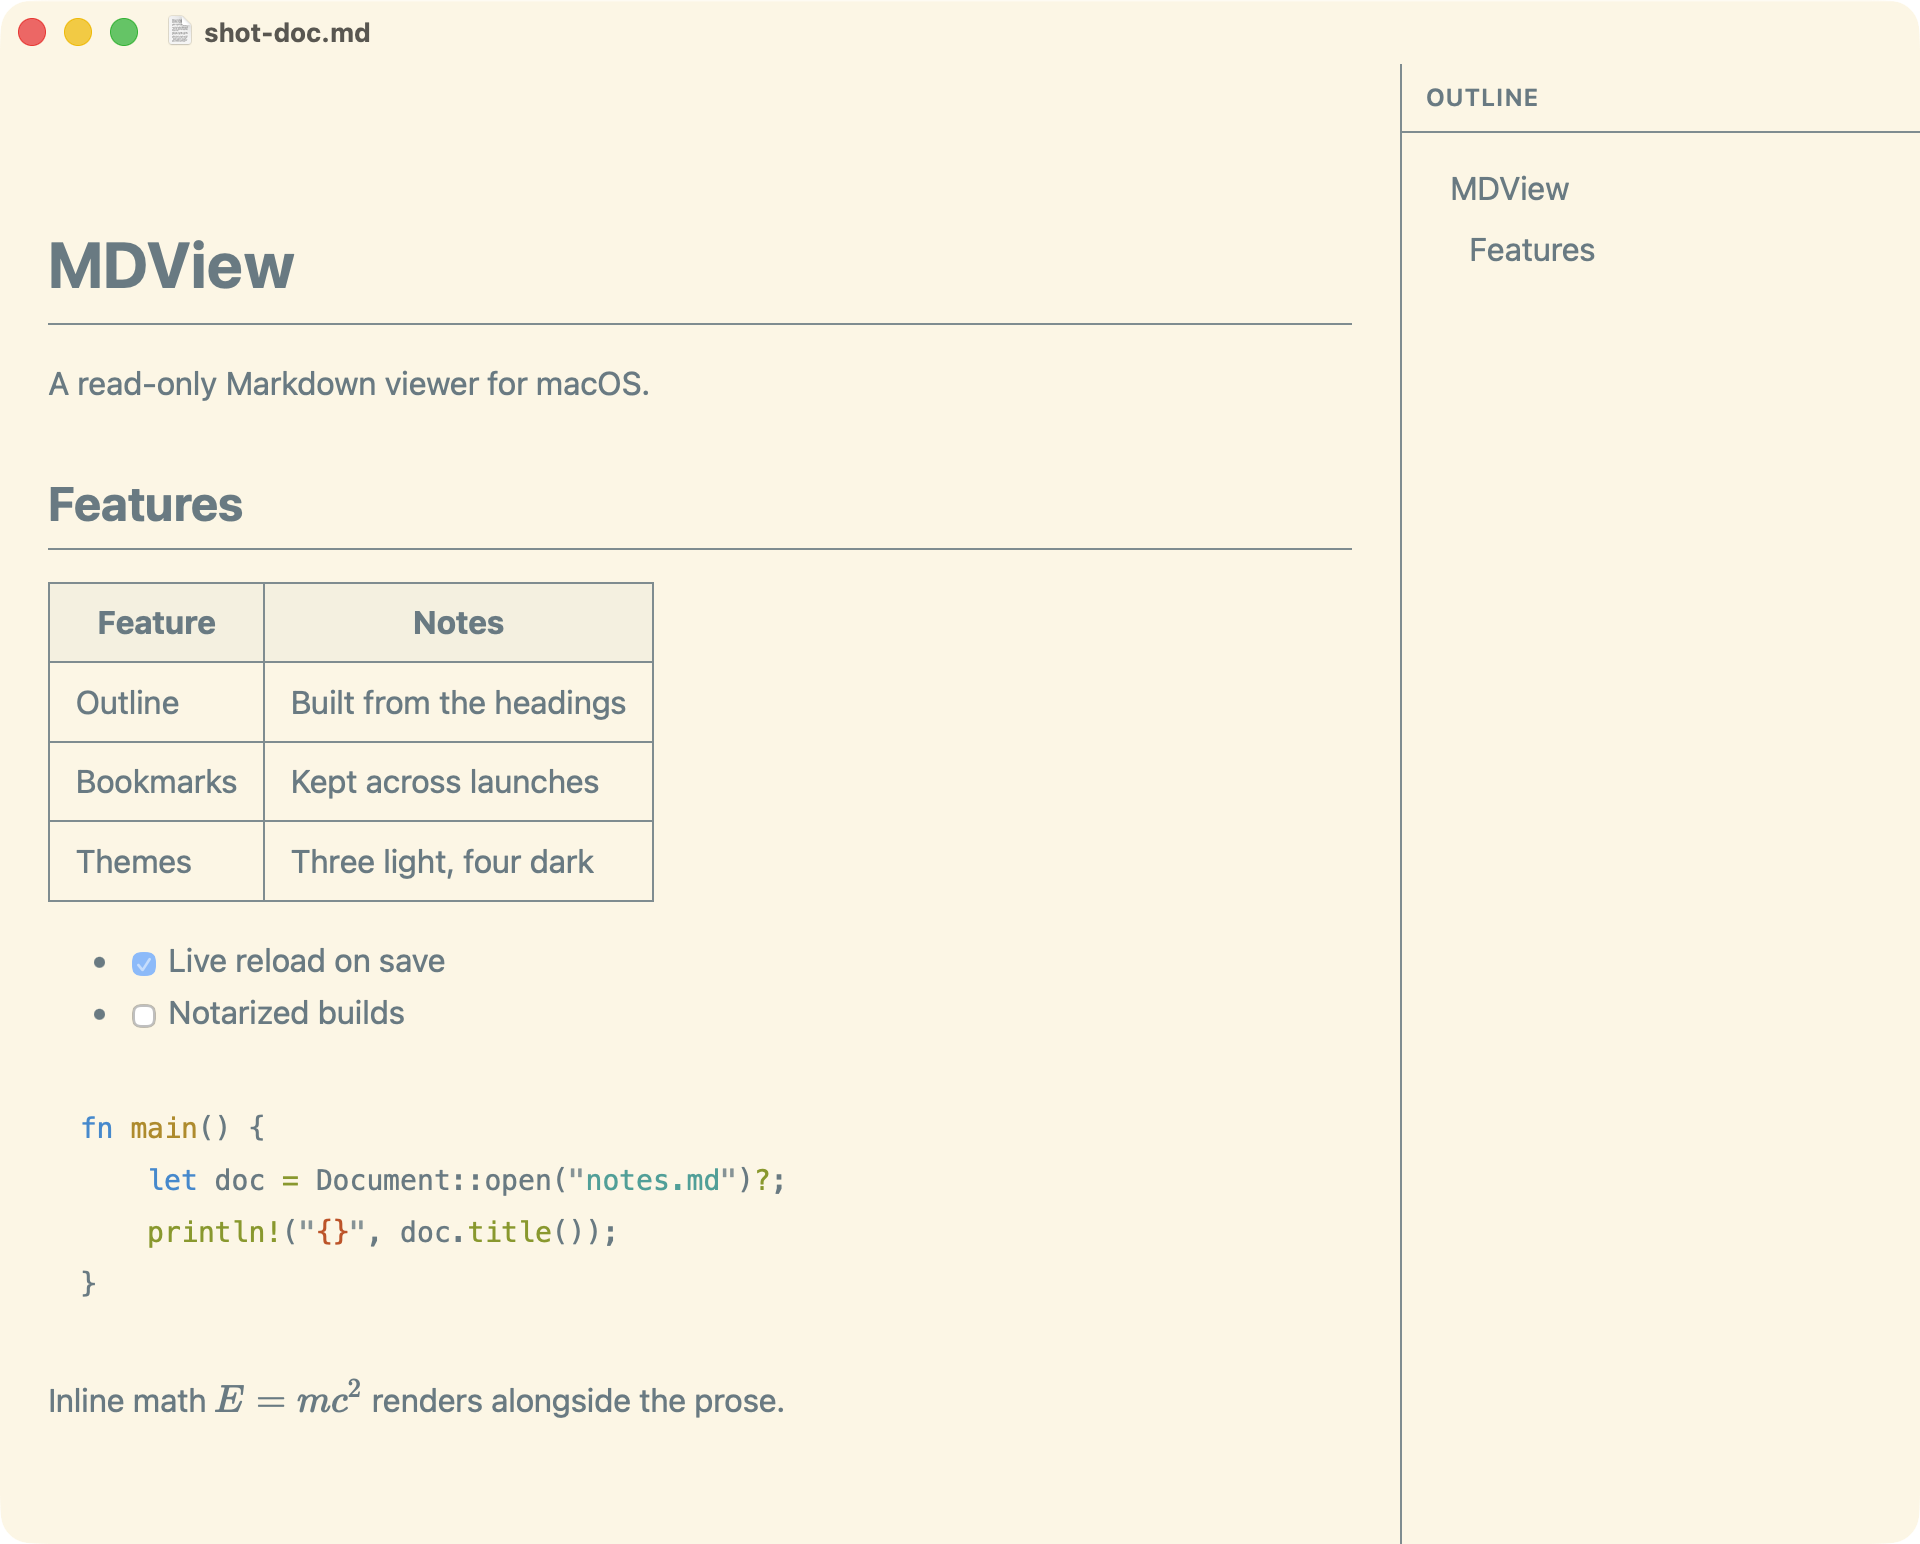
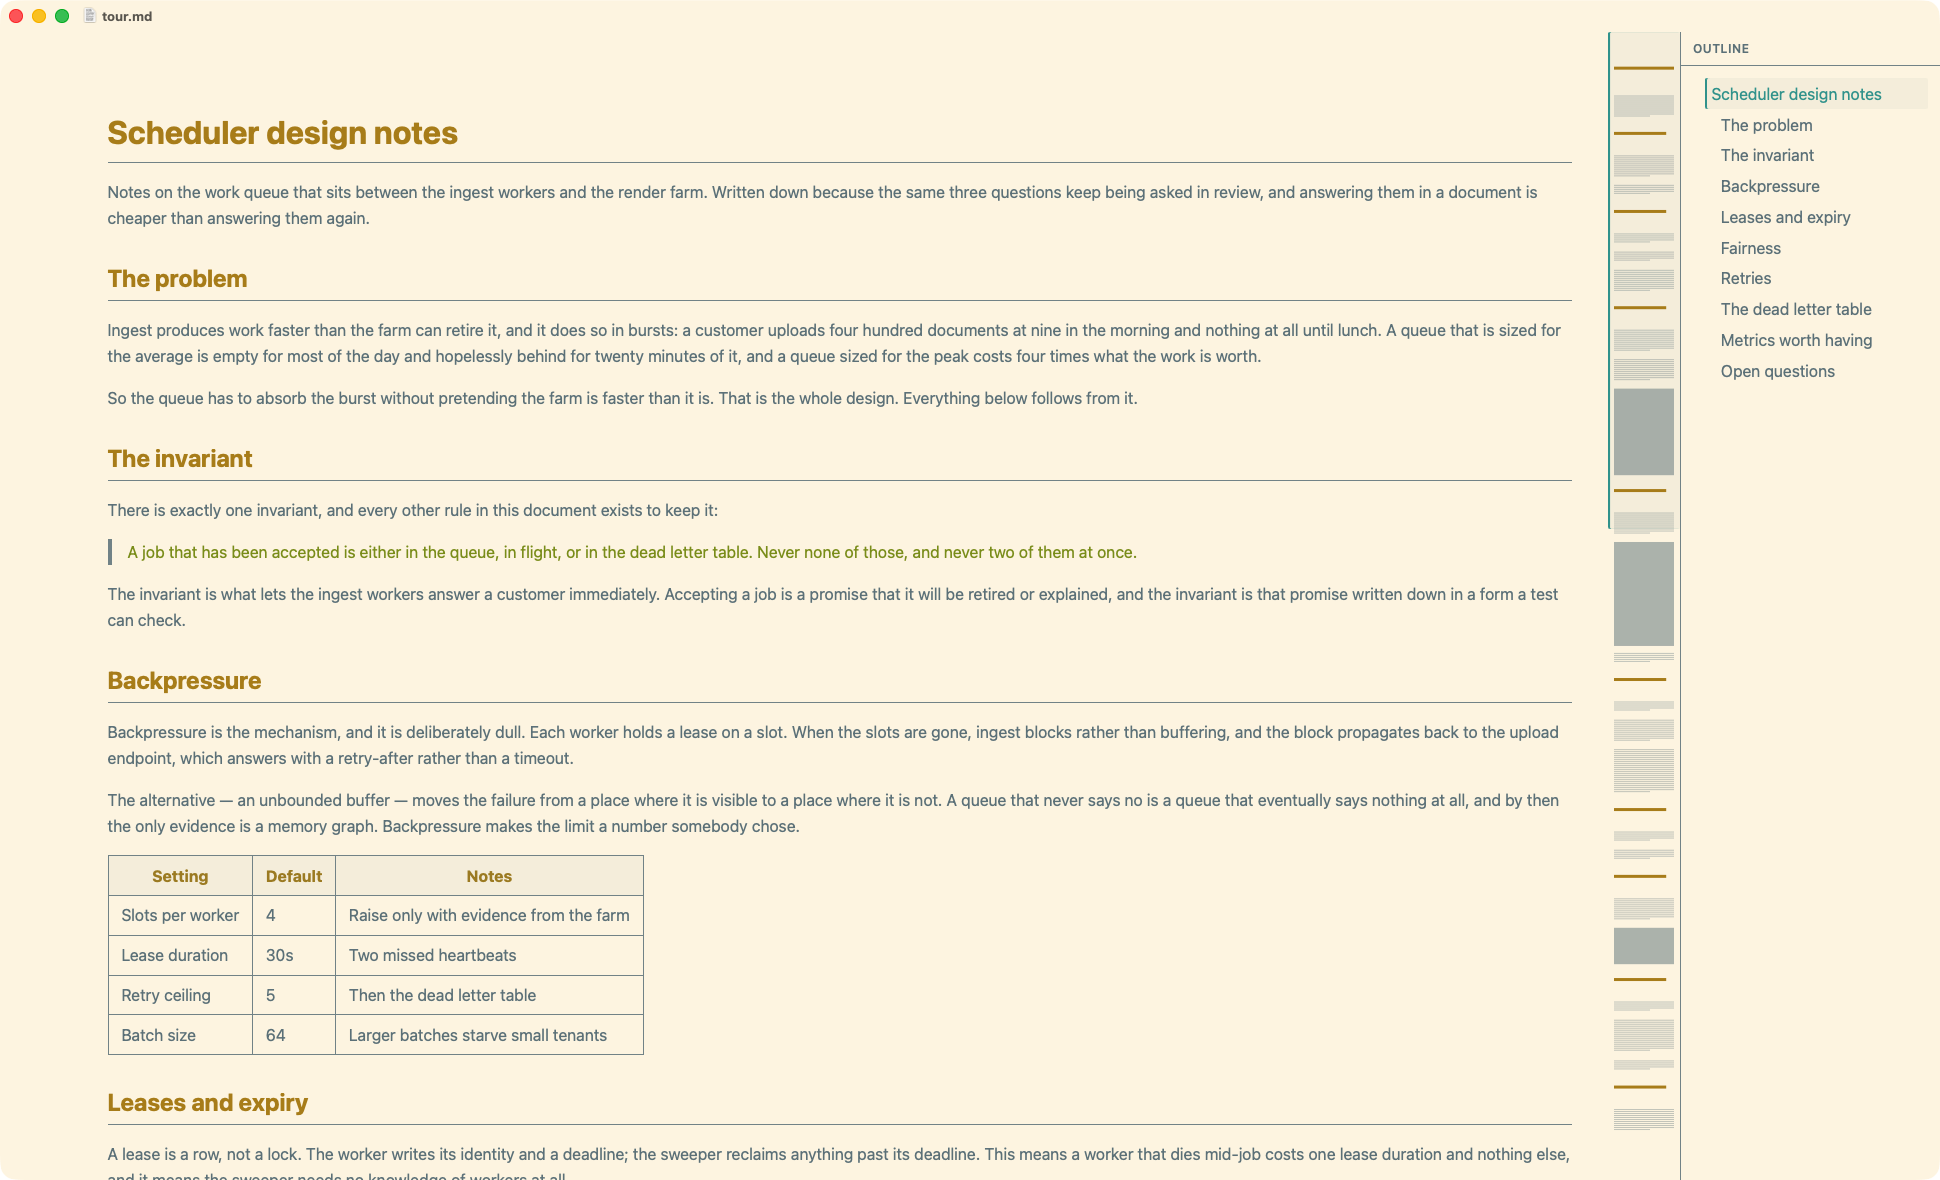
docs: retake the screenshot from the running app at v0.18.0
The old one was from v0.9 and showed a four-line document with a three-row
table -- no minimap, no palettes, and a themes row that said "three light,
four dark" when there are now eight. It was the first thing in the README and
the least true.

Retaken from the running app on reels/demo/tour.md, the same document the
reels use, in the same Solarized Light it has always used, with the outline
open and the minimap on. Still a hand capture rather than a generated one:
it is the only image that shows the real macOS window, and a page-only still
would lose the chrome that makes it read as an app rather than a web page.

The window is 1940 wide because that is where the minimap stops overlapping
the text. The reading column caps at 150 characters and the minimap floats in
whatever margin is left, so below about 1870 there is no margin to float in
and the last few words of every line disappear under it. Worth knowing before
anyone retakes this narrower.

Captured at 1x -- the built-in Retina display is closed and the attached
monitor is not scaled -- so the window was made physically large enough that
the README's downscale still lands sharp, rather than shipping a 960-point
window at half the pixels of the image it replaces.

The alt text now mentions the minimap, which is in the picture. The v0.18.0
changelog note saying this was still outstanding is corrected in the same
commit rather than left to contradict the file beside it.

diff --git a/CHANGELOG.md b/CHANGELOG.md
@@ -56,9 +56,10 @@ the commits that introduced them. The newest release is listed first.
   the rail wants 180px beyond it, so the margin only appears past about a
   2000px window. The behaviour is unchanged since v0.17 — the demo just makes
   it visible.
-- `docs/screenshot.png` is still from v0.9. It is the only image showing the
-  real macOS window, so it is left for a manual retake rather than replaced by
-  a generated page-only still.
+- `docs/screenshot.png` was retaken from the running app at v0.18.0, showing
+  the outline and the minimap that the v0.9 image predated. It stays a hand
+  capture rather than a generated one, because it is the only image that shows
+  the real macOS window.
 
 ## [v0.17.0](https://github.com/dautroc/mdview/releases/tag/v0.17.0) — 2026-09-04
 

diff --git a/README.md b/README.md
@@ -3,7 +3,7 @@
 A read-only Markdown viewer for macOS. Rust and AppKit, with WebKit used only
 as a paint surface.
 
-![MDView showing a document with its outline in the sidebar](docs/screenshot.png)
+![MDView showing a document with its outline in the sidebar and its minimap down the right edge](docs/screenshot.png)
 
 **[Take the tour](docs/tour.md)** — what each of these looks like in use,
 grouped by what you are doing at the time.
